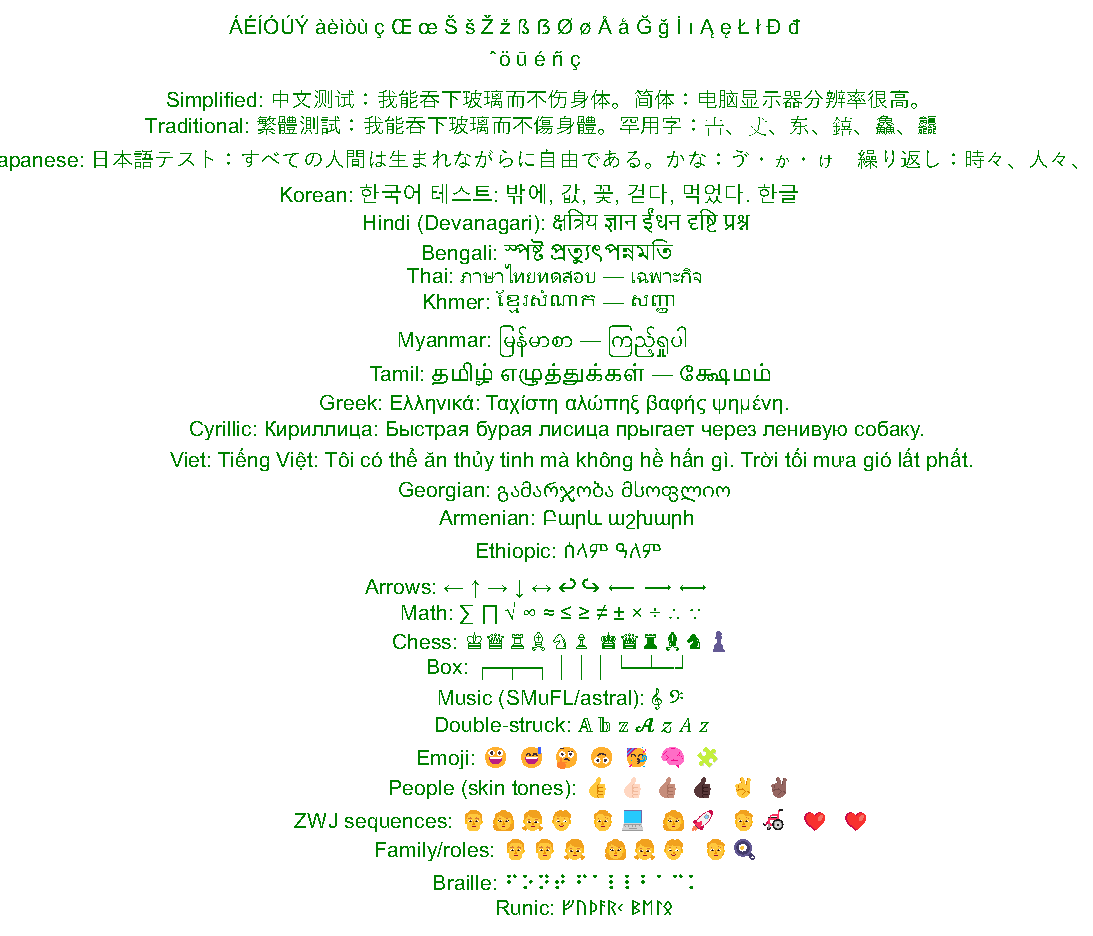
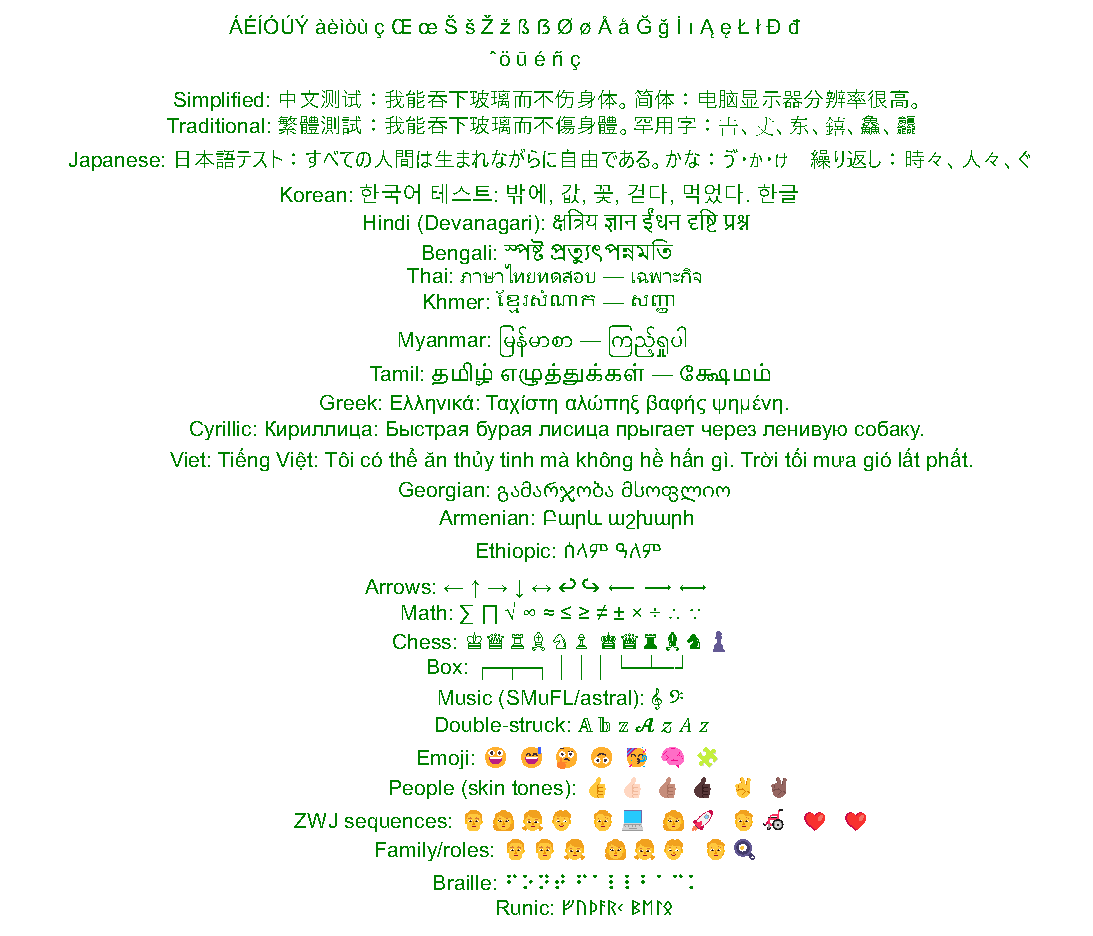
Handle fonts in a true type font collection.

Changed region(s): [[0.0, 0.0929, 0.6844, 0.1859], [0.7466, 0.1239, 0.9021, 0.1859]]

diff --git a/src/MapModel/Map_SkiaStd/EnhancedTypeface.cs b/src/MapModel/Map_SkiaStd/EnhancedTypeface.cs
@@ -36,6 +36,7 @@ namespace Map_SkiaStd
         public readonly HarfBuzzSharp.Face HBFace;
         public readonly HarfBuzzSharp.Font HBFont;
         private readonly SKStreamAsset fontStream;  // Must stay alive; HBBlob references its memory
+        private readonly int ttcIndex;              // Face index within fontStream; 0 unless it is a .ttc
 
         // Vertical metrics in em units, read from the font's own OS/2 and hhea tables.
         // Do NOT use SKFont.Metrics instead -- see FontVerticalMetrics for why that returns
@@ -79,9 +80,14 @@ namespace Map_SkiaStd
             // OpenStream() gives us the raw TrueType/OpenType data as an SKStreamAsset.
             // ToHarfBuzzBlob() wraps the stream's memory (does not copy), so the stream
             // must remain alive for the lifetime of this instance.
-            fontStream = Typeface.OpenStream();
+            // OpenStream also reports which face inside the data this typeface is. When the
+            // typeface comes from a TrueType collection the data is the whole .ttc and the index
+            // picks the face out of it; for an ordinary font file it is 0. Passing it on matters:
+            // face 0 of a collection is a different font, and defaulting to it silently shapes
+            // and embeds the wrong one.
+            fontStream = Typeface.OpenStream(out ttcIndex);
             HBBlob = fontStream.ToHarfBuzzBlob();
-            HBFace = new HarfBuzzSharp.Face(HBBlob, 0);
+            HBFace = new HarfBuzzSharp.Face(HBBlob, ttcIndex);
             HBFace.UnitsPerEm = Typeface.UnitsPerEm;
             HBFont = new HarfBuzzSharp.Font(HBFace);
 
@@ -109,9 +115,10 @@ namespace Map_SkiaStd
 
             CheckFont = new SKFont(Typeface);
 
-            fontStream = Typeface.OpenStream();
+            // See the comment on ttcIndex in the other constructor.
+            fontStream = Typeface.OpenStream(out ttcIndex);
             HBBlob = fontStream.ToHarfBuzzBlob();
-            HBFace = new HarfBuzzSharp.Face(HBBlob, 0);
+            HBFace = new HarfBuzzSharp.Face(HBBlob, ttcIndex);
             HBFace.UnitsPerEm = Typeface.UnitsPerEm;
             HBFont = new HarfBuzzSharp.Font(HBFace);
 
@@ -219,7 +226,17 @@ namespace Map_SkiaStd
             return cache.TryGetValue((familyName.ToUpperInvariant(), weight, width, slant), out entry);
         }
 
-        // Get the data of the font.
+        // The index of this face within the data returned by GetFontData(). It is 0 for an
+        // ordinary font file, and the face's position within the collection when the data is a
+        // TrueType collection (.ttc). Anything that reads the font data must use this to pick
+        // the right face out of it.
+        public int FontDataCollectionIndex
+        {
+            get { return ttcIndex; }
+        }
+
+        // Get the data of the font. For a font that lives in a TrueType collection this is the
+        // whole collection; use FontDataCollectionIndex to select the face.
         public byte[] GetFontData()
         {
             fontStream.Rewind();

diff --git a/src/MapModel/Map_PDF/PdfGraphicsTarget.cs b/src/MapModel/Map_PDF/PdfGraphicsTarget.cs
@@ -753,9 +753,6 @@ namespace PurplePen.MapModel
         }
     }
 
-    // This is the FontResolver that we use. Because isBold and isItalic are not enough, we want to really encode
-    // Skia information of weight, width, and slant. So we encode that information in the family name, and ignore the isBold and isItalic parameters.
-    // The familyName looks like family^weight^width^slant.
     // Supplies PDFsharp with the glyph that HarfBuzz actually chose, in place of the one
     // PDFsharp would look up for itself.
     //
@@ -796,14 +793,33 @@ namespace PurplePen.MapModel
         }
     }
 
+    // This is the FontResolver that we use. Because isBold and isItalic are not enough, we want to really encode
+    // Skia information of weight, width, and slant. So we encode that information in the family name, and ignore the isBold and isItalic parameters.
+    // The familyName looks like family^weight^width^slant.
     class PdfFontResolver : IFontResolver
     {
         public FontResolverInfo ResolveTypeface(string familyName, bool isBold, bool isItalic)
         {
-            return new FontResolverInfo(familyName, false, false);
+            // The collection number tells PDFsharp which face to read out of the data GetFont
+            // returns. It is only non-zero for a font that lives in a TrueType collection, where
+            // the data is the whole .ttc. Without it PDFsharp reads face 0, which is a different
+            // font from the one the text was shaped with -- for instance Nirmala UI Bold would be
+            // embedded as Nirmala UI Regular.
+            return new FontResolverInfo(familyName, false, false, LookupTypeface(familyName).FontDataCollectionIndex);
         }
 
         public byte[] GetFont(string faceName)
+        {
+            return LookupTypeface(faceName).GetFontData();
+        }
+
+        // Find the ShapedTypeface for an encoded face name. Both of the methods above go through
+        // here, so the font data and the collection number that selects a face within it are
+        // always taken from the same typeface.
+        //
+        // Parameters:
+        //   faceName - an encoded name as produced by GetEncodedFamilyName.
+        private static ShapedTypeface LookupTypeface(string faceName)
         {
             (string familyName, SKFontStyleWeight weight, SKFontStyleWidth width, SKFontStyleSlant slant) = DecodeFamilyName(faceName);
 
@@ -818,7 +834,7 @@ namespace PurplePen.MapModel
             if (!ShapedTypeface.TryGetCached(familyName, weight, width, slant, out ShapedTypeface shapedTypeface))
                 shapedTypeface = ShapedTypeface.Get(familyName, weight, width, slant);
 
-            return shapedTypeface.GetFontData();
+            return shapedTypeface;
         }
 
         public static string GetEncodedFamilyName(string familyName, SKFontStyleWeight weight, SKFontStyleWidth width, SKFontStyleSlant slant)

diff --git a/src/MapModel/PDFsharp/src/foundation/src/PDFsharp/src/PdfSharp/Fonts.OpenType/OpenTypeFontface.cs b/src/MapModel/PDFsharp/src/foundation/src/PDFsharp/src/PdfSharp/Fonts.OpenType/OpenTypeFontface.cs
@@ -98,16 +98,18 @@ namespace PdfSharp.Fonts.OpenType
 
         readonly string _fullFaceName;
 
-        public ulong CheckSum
-        {
-            get
-            {
-                if (_checkSum == 0)
-                    _checkSum = FontHelper.CalcChecksum(FontSource.Bytes);
-                return _checkSum;
-            }
-        }
-        ulong _checkSum;
+        /// <summary>
+        /// Gets the value that identifies this font face in the font face cache.
+        /// </summary>
+        /// <remarks>
+        /// This is the key of the font source, which combines the checksum of the font data with
+        /// the collection number. The faces of a TrueType collection share one byte array, so a
+        /// checksum of the bytes alone is the same for every face in the collection and the second
+        /// face to be added collides with the first in OpenTypeFontFaceCache. For a font that is
+        /// not a collection the key is exactly the checksum of the bytes, so nothing changes for
+        /// the ordinary case.
+        /// </remarks>
+        public ulong CheckSum => FontSource.Key;
 
         public void SetFontEmbedding(PdfFontEmbedding fontEmbedding)
         {
